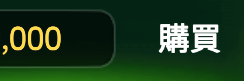
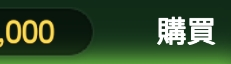
feat: update img

diff --git a/README.md b/README.md
@@ -1,5 +1,3 @@
-退坑了 QQ
-
 # epic7autoBookmark
 
 第七史詩刷商店的小工具  
@@ -21,6 +19,12 @@ ii. 推薦：只勾高級設定
 ![預覽](https://i.imgur.com/2sAobaw.png)  
 i. adb_addr填adb路徑  
 ii. e7_language填e7裡的語系(繁中: zh-TW, 簡中: zh-CN, 英文: en-US)
+iii. 打开·D:\Program Files\Netease\MuMu Player 12\shell 目录，输入cmd，回车
+iiii. 輸入 
+```shell
+./adb.exe connect 127.0.0.1:16384
+```
+iiiii. 打开main.exe，按開始，應該就會自動開始刷了。
   
 ## 二、使用方式
 先將bluestack和第七史詩的設定調整的如上方環境相同。  